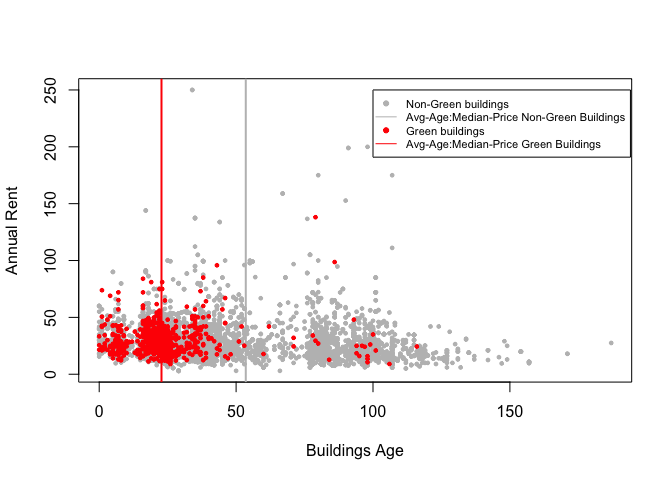
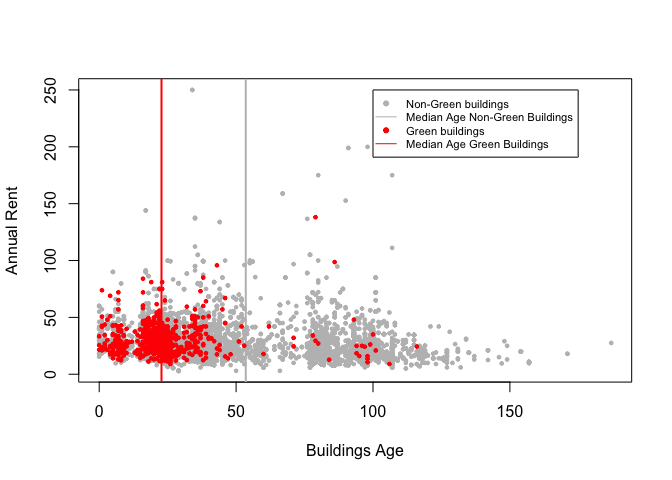
chart wording

Changed region(s): [[0.5938, 0.1875, 0.9375, 0.3438]]

diff --git a/GreenBuilding.md b/GreenBuilding.md
@@ -39,7 +39,7 @@ higher rent. We decided to analyze the buildings with ages less than 50.
     abline(v=mean(nongreen_median$age),col='grey',lwd=2)
     abline(v=mean(green_median$age),col='red',lwd=2)
     points(green_buildings$age, green_buildings$Rent, col="red", pch=19, cex=0.5)
-    legend(x=100,y=250,cex=0.7,legend=c('Non-Green buildings','Avg-Age:Median-Price Non-Green Buildings','Green buildings','Avg-Age:Median-Price Green Buildings'),lty=c(NA,1,NA,1),pch=c(19,NA,19,NA),col=c('grey','grey','red','red'))
+    legend(x=100,y=250,cex=0.7,legend=c('Non-Green buildings','Median Age Non-Green Buildings','Green buildings','Median Age Green Buildings'),lty=c(NA,1,NA,1),pch=c(19,NA,19,NA),col=c('grey','grey','red','red'))
 
 ![](GreenBuilding_files/figure-markdown_strict/con_age-1.png)
 
